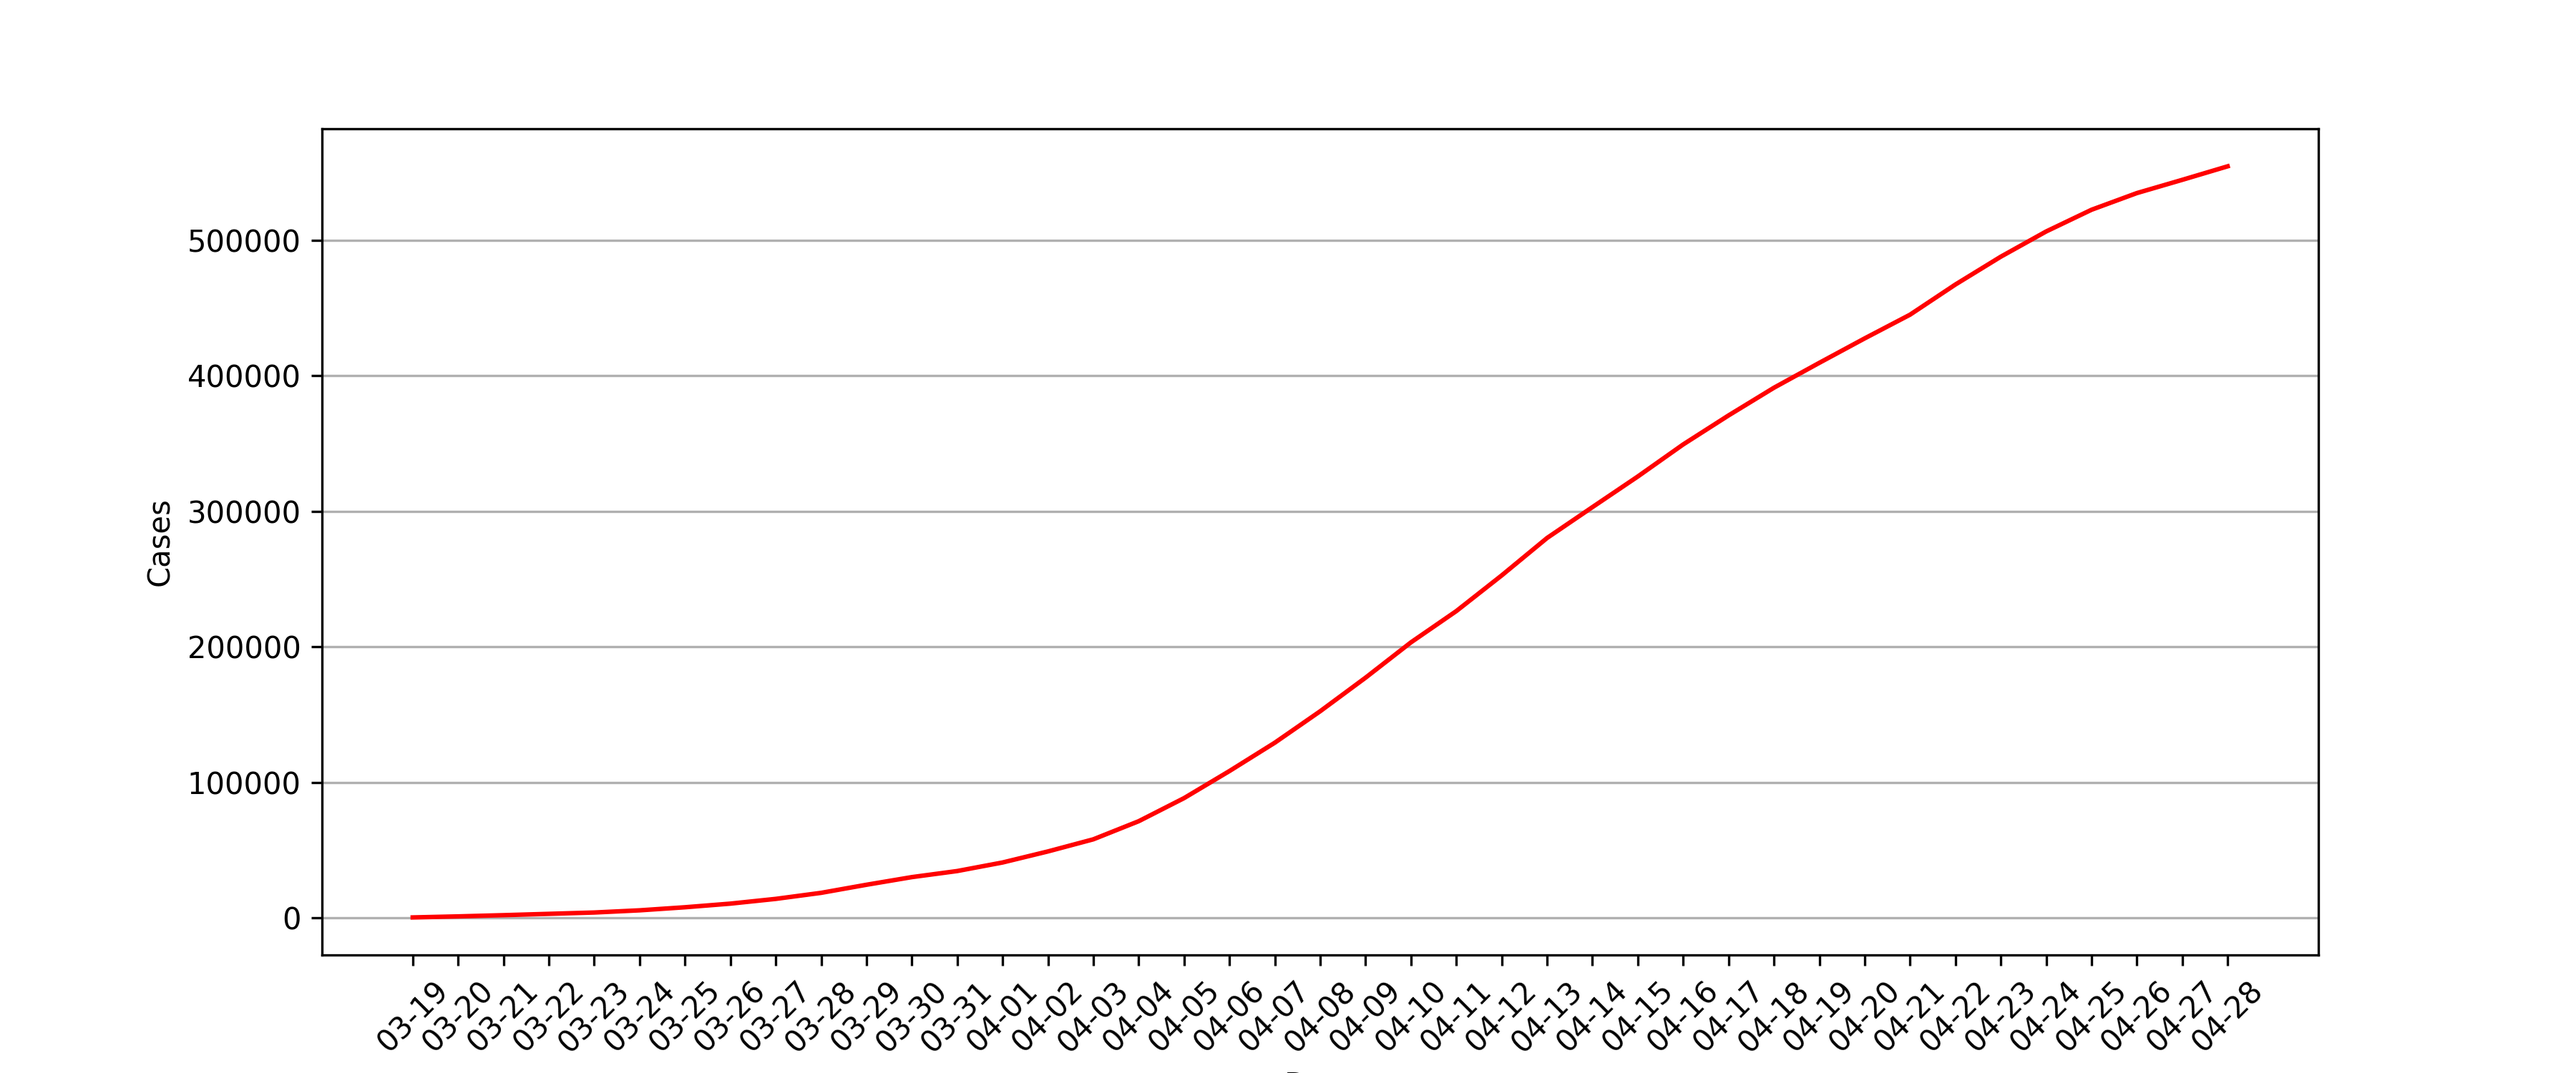
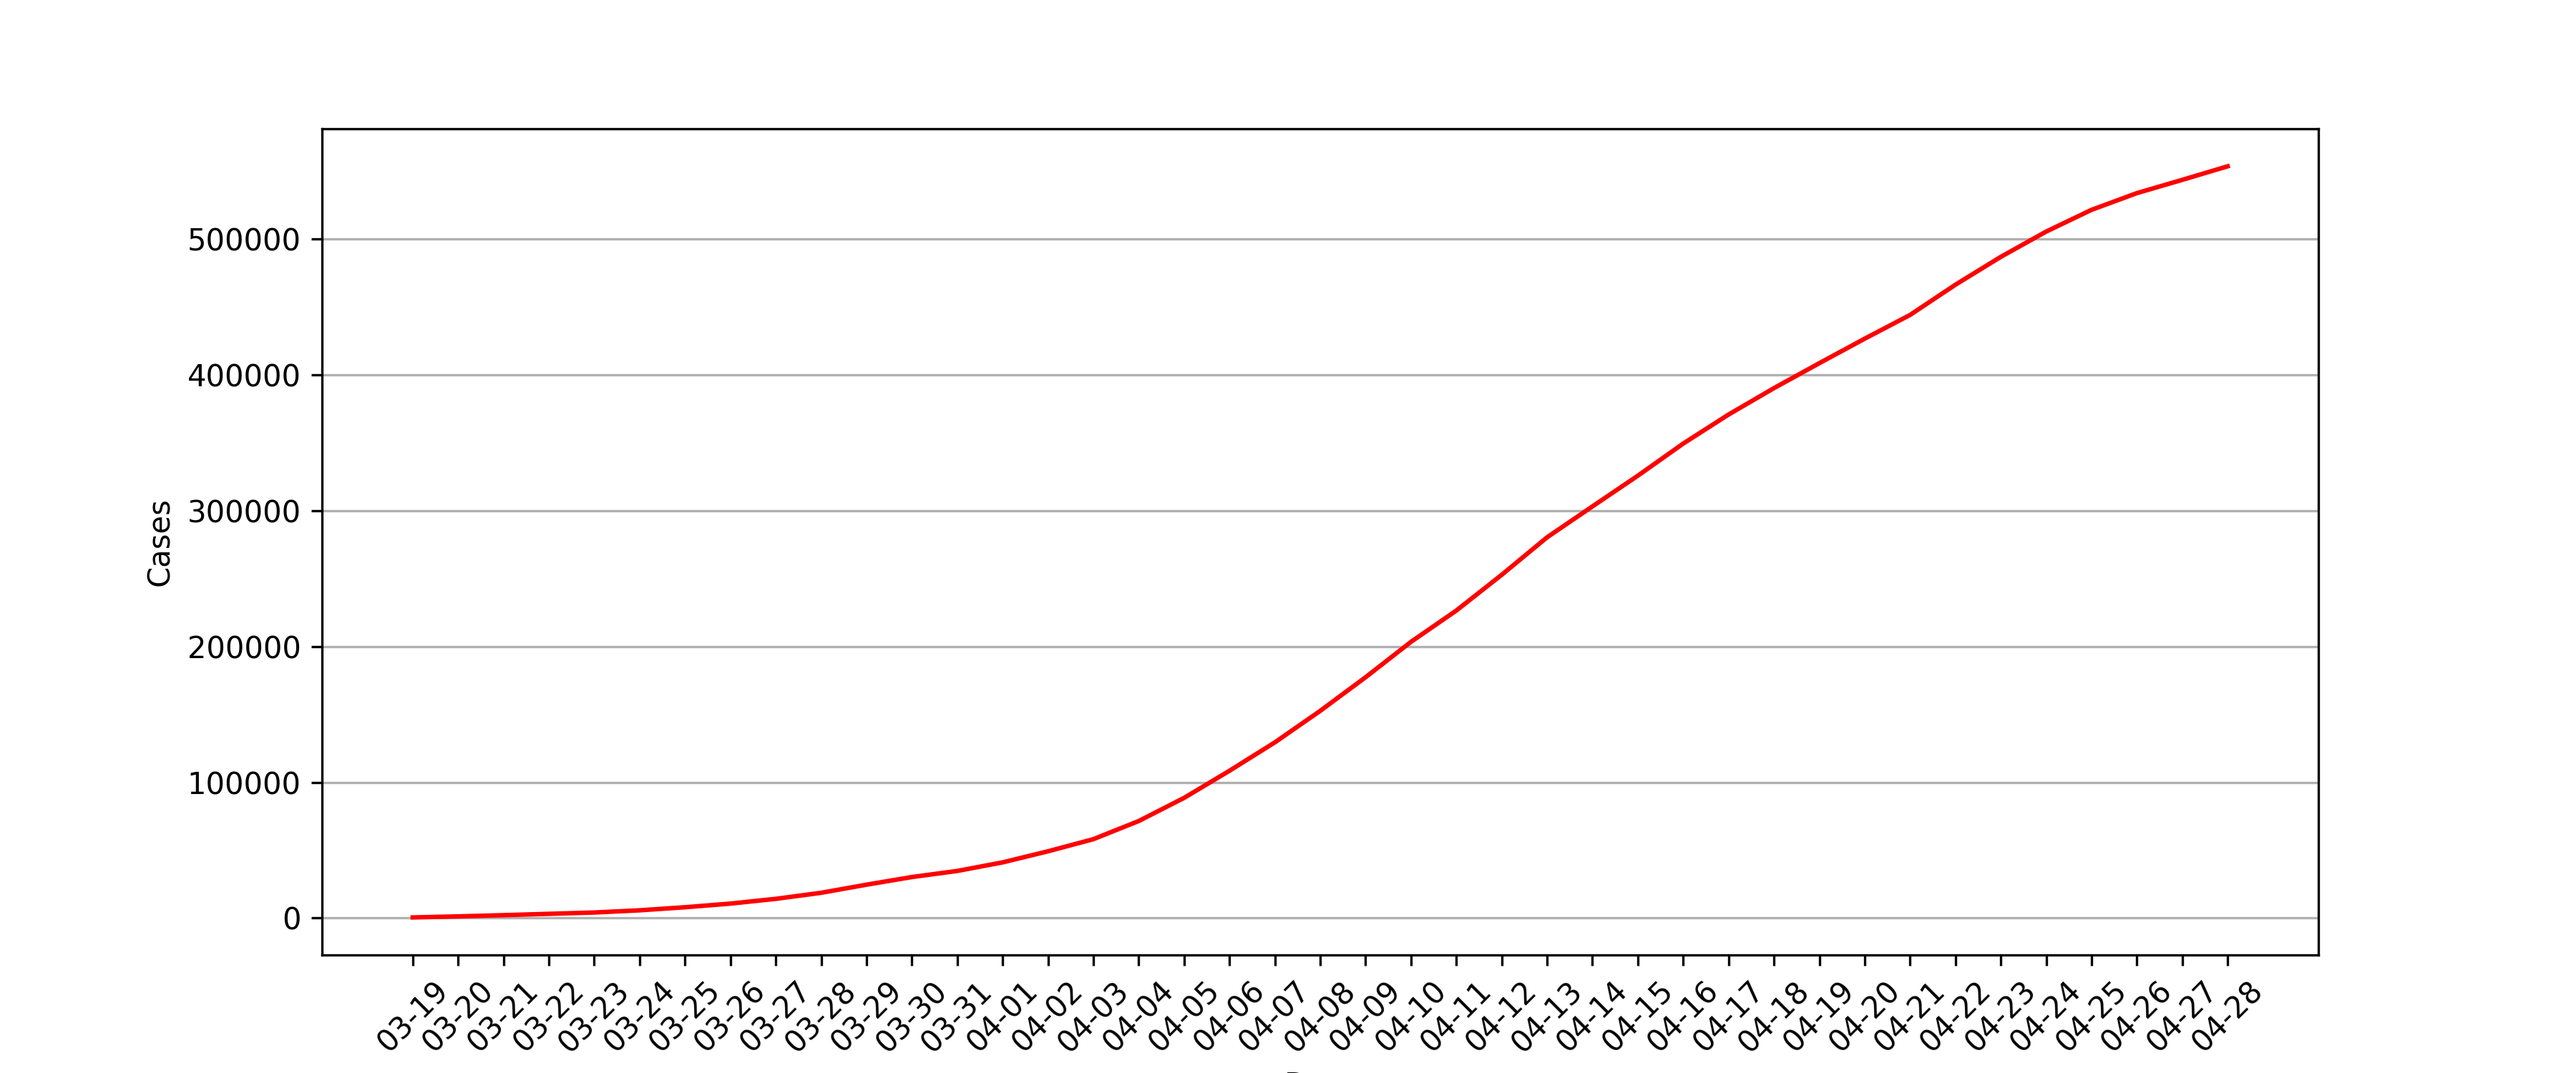
fix a2c data on 2022/04/18

Changed region(s): [[0.0622, 0.2147, 0.1244, 0.2453], [0.0933, 0.46, 0.1244, 0.4907], [0.0933, 0.3373, 0.1244, 0.368]]

diff --git a/parser.py b/parser.py
@@ -158,7 +158,7 @@ def generate_json_files(urls):
 
 
 if __name__ == "__main__":
-    filename = "archived_html/54920aa661ffa8f89bbcbe07e0a1dc30.html"
+    filename = "archived_html/e57f746f6f2e8fc07c3d621d73d17fd1.html"
     total = parse_html_to_json(filename)
     ret = json.dumps(total, ensure_ascii=False,
                      indent=4, separators=(',', ':'))

diff --git a/README.md b/README.md
@@ -24,7 +24,7 @@ This project will be updated every day before Shanghai reopens. JSON files with 
 | 2022-04-21 | 17486 | 11 | 1931 | 15698 | 143 |
 | 2022-04-20 | 18036 | 0 | 2634 | 15861 | 459 |
 | 2022-04-19 | 18368 | 0 | 2494 | 16407 | 533 |
-| 2022-04-18 | 20416 | 0 | 3084 | 17332 | 0 |
+| 2022-04-18 | 19442 | 0 | 3084 | 17332 | 974 |
 | 2022-04-17 | 21395 | 0 | 2417 | 19831 | 853 |
 | 2022-04-16 | 23643 | 0 | 3238 | 21582 | 1177 |
 | 2022-04-15 | 22591 | 0 | 3590 | 19923 | 922 |
@@ -64,17 +64,17 @@ This project will be updated every day before Shanghai reopens. JSON files with 
 
 | Date | Total Cases  | Total Deaths | Case‑Fatality |
 | ---- | ---------- | ---------- | ---------- |
-| 2022-04-28 | 554467 | 312 | 0.0563% |
-| 2022-04-27 | 544497 | 260 | 0.0478% |
-| 2022-04-26 | 534733 | 213 | 0.0398% |
-| 2022-04-25 | 522424 | 165 | 0.0316% |
-| 2022-04-24 | 506412 | 113 | 0.0223% |
-| 2022-04-23 | 487803 | 62 | 0.0127% |
-| 2022-04-22 | 467286 | 23 | 0.0049% |
-| 2022-04-21 | 445036 | 11 | 0.0025% |
-| 2022-04-20 | 427550 | 0 | 0.0000% |
-| 2022-04-19 | 409514 | 0 | 0.0000% |
-| 2022-04-18 | 391146 | 0 | 0.0000% |
+| 2022-04-28 | 553493 | 312 | 0.0564% |
+| 2022-04-27 | 543523 | 260 | 0.0478% |
+| 2022-04-26 | 533759 | 213 | 0.0399% |
+| 2022-04-25 | 521450 | 165 | 0.0316% |
+| 2022-04-24 | 505438 | 113 | 0.0224% |
+| 2022-04-23 | 486829 | 62 | 0.0127% |
+| 2022-04-22 | 466312 | 23 | 0.0049% |
+| 2022-04-21 | 444062 | 11 | 0.0025% |
+| 2022-04-20 | 426576 | 0 | 0.0000% |
+| 2022-04-19 | 408540 | 0 | 0.0000% |
+| 2022-04-18 | 390172 | 0 | 0.0000% |
 | 2022-04-17 | 370730 | 0 | 0.0000% |
 | 2022-04-16 | 349335 | 0 | 0.0000% |
 | 2022-04-15 | 325692 | 0 | 0.0000% |
